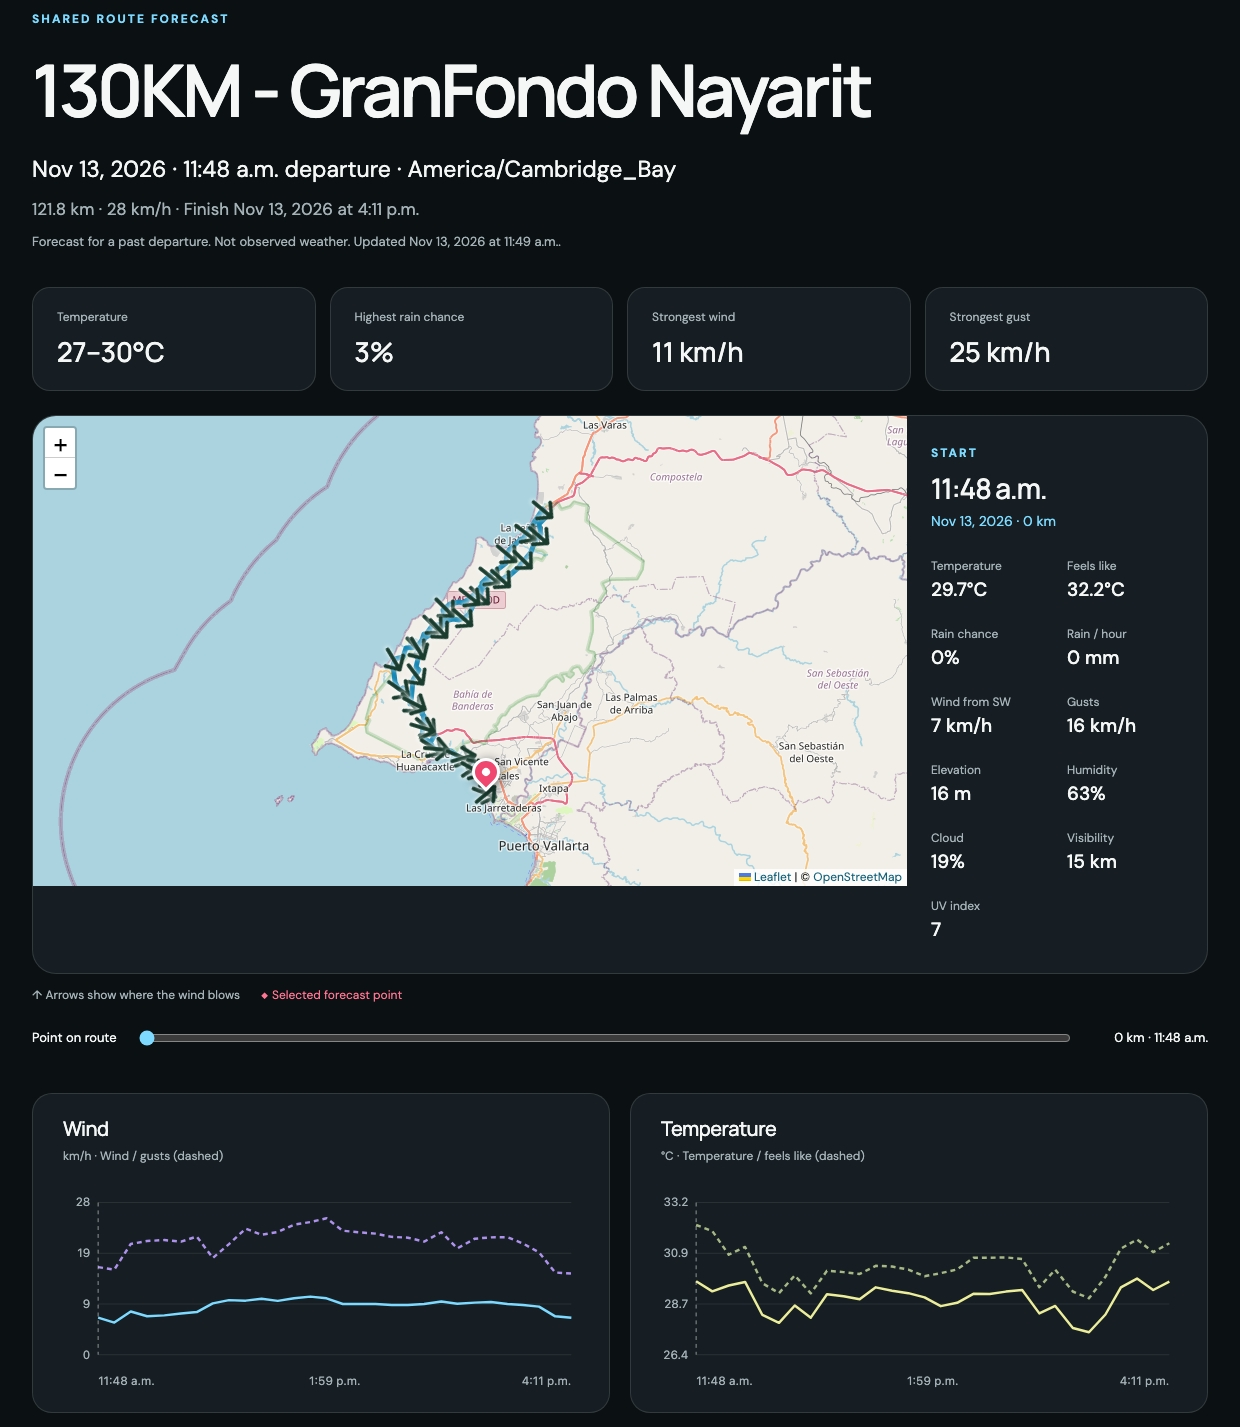
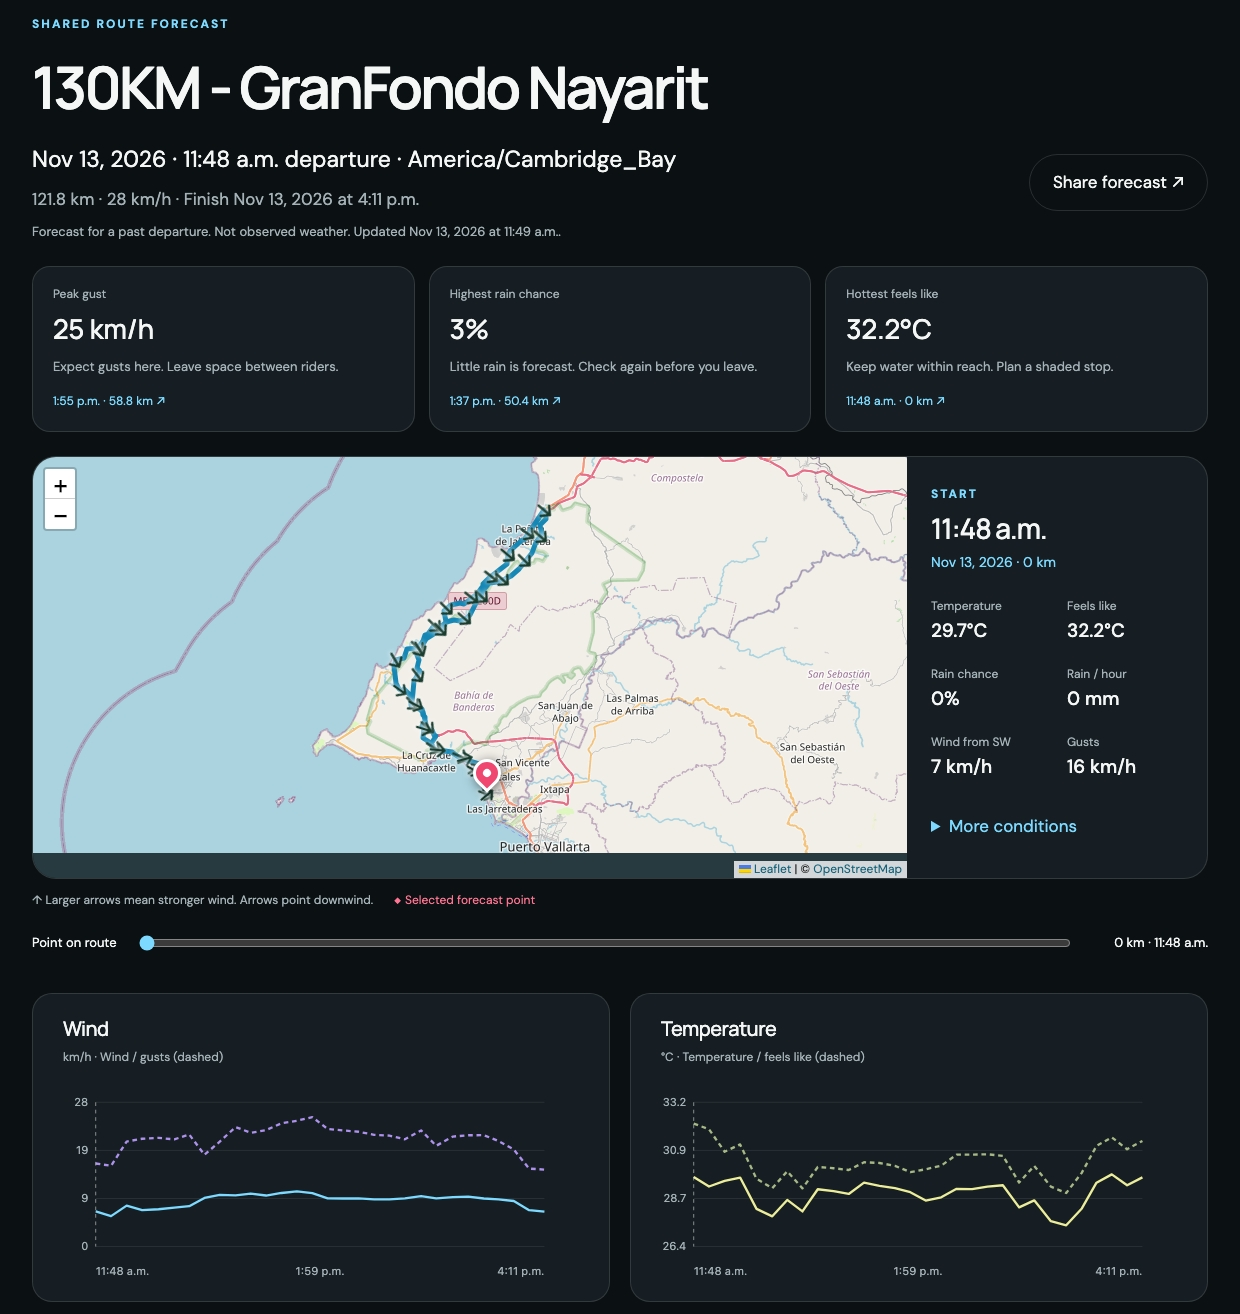
Update landing preview with the current live forecast

diff --git a/index.html b/index.html
@@ -199,7 +199,7 @@
           <h2 class="reveal">One route.<br />One forecast to share.</h2>
           <p class="reveal">Send the link to your group. Everyone can see the weather for your route, departure and speed. No account needed.</p>
           <a class="web-preview reveal" href="/f/45879ecb-fdf4-4b39-98a7-d8ab68875793" aria-label="View the shared GranFondo Nayarit forecast">
-            <img src="/assets/screenshot/shared-forecast.jpeg" alt="A shared Brezza route forecast with wind arrows, arrival weather and route charts" loading="lazy" width="1240" height="1427" />
+            <img src="/assets/screenshot/shared-forecast.jpeg" alt="A shared Brezza route forecast with wind arrows, arrival weather and route charts" loading="lazy" width="1240" height="1314" />
           </a>
           <a class="button outline" href="/f/45879ecb-fdf4-4b39-98a7-d8ab68875793">View the forecast ↗</a>
         </div>
